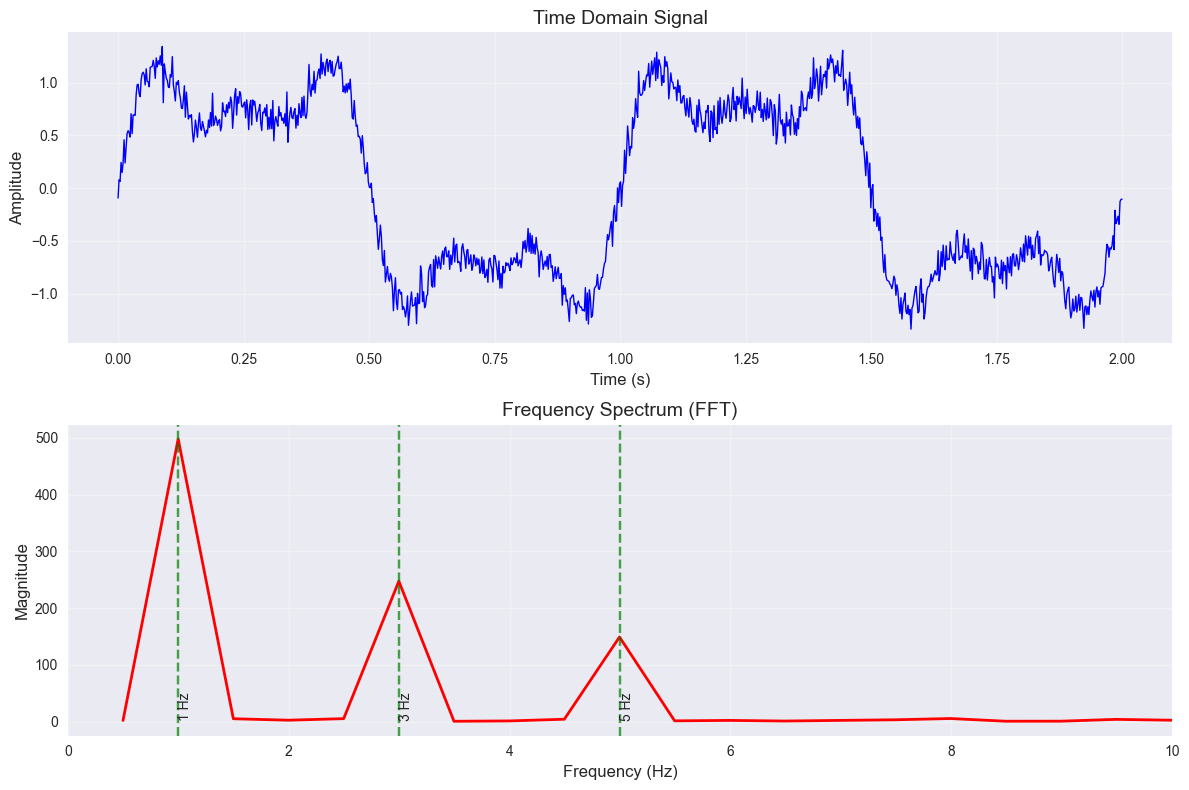
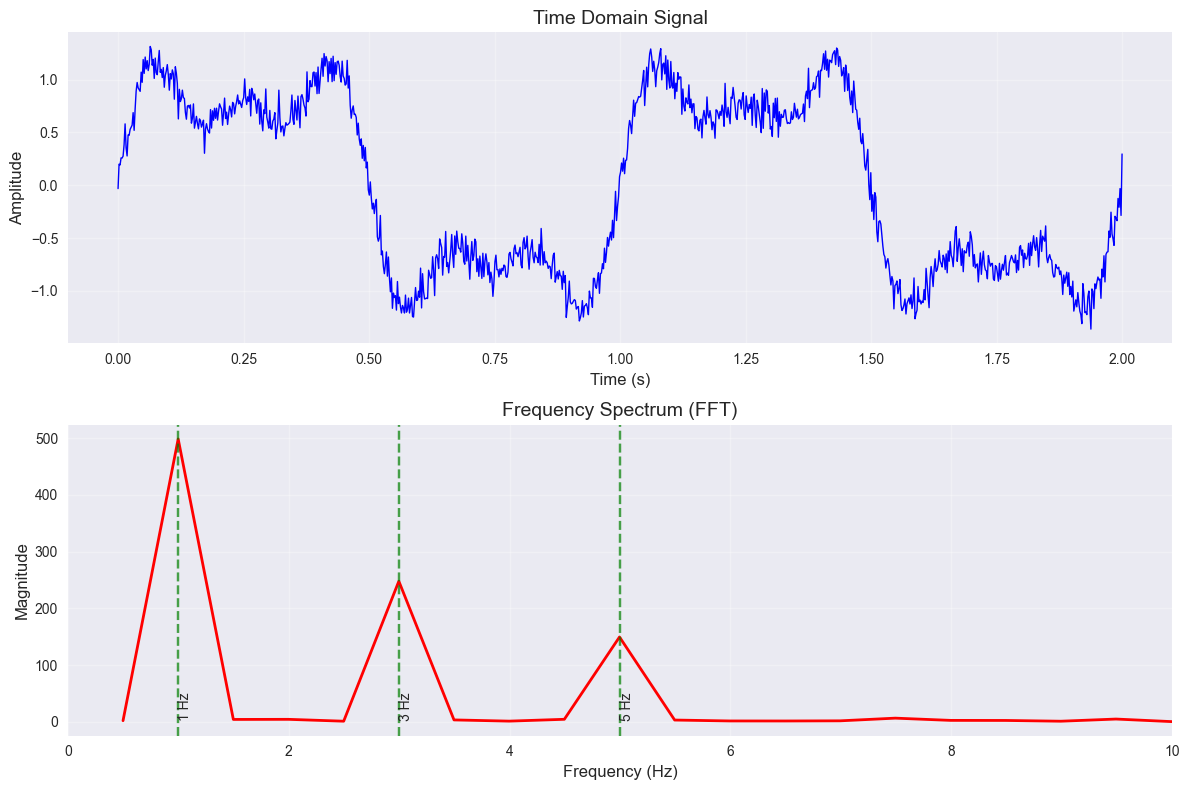
fix: use relative paths for notebook images
- Update compile_notebooks.py to generate relative image paths instead of absolute paths
- Change from /compiled_notebooks/notebook-name/image.png to just image.png
- This fixes image rendering issues in the compiled documentation
- Recompile all notebooks to apply the path fixes

diff --git a/scripts/compile_notebooks.py b/scripts/compile_notebooks.py
@@ -200,15 +200,15 @@ def fix_image_paths(markdown_content, notebook_name):
             
             # If it's a relative path from nbconvert, adjust it
             if original_path.startswith('./'):
-                # Remove the ./ and prepend static path
+                # Remove ./ - use relative path since we're in the same directory
                 filename = original_path[2:]
-                new_path = f"/compiled_notebooks/{zola_dir_name}/{filename}"
+                new_path = filename
             elif original_path.startswith('../'):
                 # Handle relative paths
                 new_path = original_path
             else:
-                # Prepend static path
-                new_path = f"/compiled_notebooks/{zola_dir_name}/{original_path}"
+                # Use relative path since we're in the same directory
+                new_path = original_path
             
             return f'![{alt_text}]({new_path})'
         

diff --git a/zdocs/content/compiled_notebooks/mathematical_concepts.md b/zdocs/content/compiled_notebooks/mathematical_concepts.md
@@ -8,8 +8,8 @@ in_search_index = true
 
 [extra]
 notebook_source = "mathematical_concepts.ipynb"
-generated_date = "2026-03-22 12:34:51"
-execution_time = "3.23s"
+generated_date = "2026-03-22 16:10:11"
+execution_time = "3.19s"
 cell_count = 13
 +++
 
@@ -86,17 +86,17 @@ plt.show()
     <>:28: SyntaxWarning: invalid escape sequence '\s'
     <>:29: SyntaxWarning: invalid escape sequence '\s'
     <>:35: SyntaxWarning: invalid escape sequence '\s'
-    /tmp/ipykernel_2469564/74342987.py:28: SyntaxWarning: invalid escape sequence '\s'
+    /tmp/ipykernel_2802022/74342987.py:28: SyntaxWarning: invalid escape sequence '\s'
       ax1.plot(x, y, 'b-', linewidth=2, label='$f(x) = x^2 \sin(x)$')
-    /tmp/ipykernel_2469564/74342987.py:29: SyntaxWarning: invalid escape sequence '\s'
+    /tmp/ipykernel_2802022/74342987.py:29: SyntaxWarning: invalid escape sequence '\s'
       ax1.set_title('Function $f(x) = x^2 \sin(x)$', fontsize=14)
-    /tmp/ipykernel_2469564/74342987.py:35: SyntaxWarning: invalid escape sequence '\s'
+    /tmp/ipykernel_2802022/74342987.py:35: SyntaxWarning: invalid escape sequence '\s'
       ax2.plot(x, y_prime, 'r-', linewidth=2, label="$f'(x) = 2x \sin(x) + x^2 \cos(x)$")
 
 
 
     
-![png](/compiled_notebooks/mathematical-concepts/output_2_1.png)
+![png](output_2_1.png)
     
 
 
@@ -184,7 +184,7 @@ plt.show()
 
 
     
-![png](/compiled_notebooks/mathematical-concepts/output_5_0.png)
+![png](output_5_0.png)
     
 
 
@@ -249,7 +249,7 @@ print(f"Kurtosis: {norm_dist.stats('k'):.4f}")
 
 
     
-![png](/compiled_notebooks/mathematical-concepts/output_7_0.png)
+![png](output_7_0.png)
     
 
 
@@ -325,7 +325,7 @@ plt.show()
 
 
     
-![png](/compiled_notebooks/mathematical-concepts/output_9_0.png)
+![png](output_9_0.png)
     
 
 
@@ -399,28 +399,27 @@ for freq, mag in zip(peak_frequencies, peak_magnitudes):
 
 
     
-![png](/compiled_notebooks/mathematical-concepts/output_11_0.png)
+![png](output_11_0.png)
     
 
 
     Detected frequency components:
-    Frequency: 1.00 Hz, Magnitude: 497.83
-    Frequency: 3.00 Hz, Magnitude: 247.43
-    Frequency: 4.99 Hz, Magnitude: 149.09
-    Frequency: 5.99 Hz, Magnitude: 2.23
-    Frequency: 7.99 Hz, Magnitude: 5.54
-    Frequency: 9.49 Hz, Magnitude: 4.06
-    Frequency: 10.49 Hz, Magnitude: 3.43
-    Frequency: 11.99 Hz, Magnitude: 4.83
-    Frequency: 13.49 Hz, Magnitude: 2.32
-    Frequency: 14.49 Hz, Magnitude: 2.58
-    Frequency: 15.98 Hz, Magnitude: 3.05
-    Frequency: 16.98 Hz, Magnitude: 3.68
-    Frequency: 18.98 Hz, Magnitude: 5.72
-    Frequency: 19.98 Hz, Magnitude: 4.05
-    Frequency: 20.98 Hz, Magnitude: 2.41
-    Frequency: 21.98 Hz, Magnitude: 4.03
-    Frequency: 23.48 Hz, Magnitude: 4.22
+    Frequency: 1.00 Hz, Magnitude: 498.73
+    Frequency: 2.00 Hz, Magnitude: 4.35
+    Frequency: 3.00 Hz, Magnitude: 247.95
+    Frequency: 4.99 Hz, Magnitude: 149.55
+    Frequency: 7.49 Hz, Magnitude: 6.45
+    Frequency: 9.49 Hz, Magnitude: 4.86
+    Frequency: 11.99 Hz, Magnitude: 3.51
+    Frequency: 13.49 Hz, Magnitude: 5.52
+    Frequency: 14.49 Hz, Magnitude: 4.49
+    Frequency: 15.98 Hz, Magnitude: 4.24
+    Frequency: 16.98 Hz, Magnitude: 2.52
+    Frequency: 17.98 Hz, Magnitude: 3.71
+    Frequency: 19.48 Hz, Magnitude: 4.62
+    Frequency: 20.48 Hz, Magnitude: 4.22
+    Frequency: 22.48 Hz, Magnitude: 4.40
+    Frequency: 23.98 Hz, Magnitude: 3.12
 
 
 ## Summary

diff --git a/zdocs/content/compiled_notebooks/statistical_analysis.md b/zdocs/content/compiled_notebooks/statistical_analysis.md
@@ -8,8 +8,8 @@ in_search_index = true
 
 [extra]
 notebook_source = "statistical_analysis.ipynb"
-generated_date = "2026-03-22 12:34:57"
-execution_time = "5.71s"
+generated_date = "2026-03-22 16:10:17"
+execution_time = "5.88s"
 cell_count = 36
 +++
 
@@ -262,7 +262,7 @@ plt.show()
 
 
     
-![png](/compiled_notebooks/statistical-analysis/output_6_0.png)
+![png](output_6_0.png)
     
 
 
@@ -335,13 +335,13 @@ plt.show()
 
 
     
-![png](/compiled_notebooks/statistical-analysis/output_9_0.png)
+![png](output_9_0.png)
     
 
 
 
     
-![png](/compiled_notebooks/statistical-analysis/output_9_1.png)
+![png](output_9_1.png)
     
 
 
@@ -351,7 +351,7 @@ plt.show()
 
 
     
-![png](/compiled_notebooks/statistical-analysis/output_9_3.png)
+![png](output_9_3.png)
     
 
 
@@ -474,7 +474,7 @@ plt.show()
 
 
     
-![png](/compiled_notebooks/statistical-analysis/output_15_1.png)
+![png](output_15_1.png)
     
 
 
@@ -530,7 +530,7 @@ plt.show()
 
 
     
-![png](/compiled_notebooks/statistical-analysis/output_16_1.png)
+![png](output_16_1.png)
     
 
 
@@ -759,7 +759,7 @@ plt.show()
 
 
     
-![png](/compiled_notebooks/statistical-analysis/output_24_0.png)
+![png](output_24_0.png)
     
 
 
@@ -812,7 +812,7 @@ plt.show()
 
 
     
-![png](/compiled_notebooks/statistical-analysis/output_26_1.png)
+![png](output_26_1.png)
     
 
 
@@ -873,6 +873,8 @@ plt.show()
 ```
 
     === FIRST DIFFERENCE ===
+
+
     === AUGMENTED DICKEY-FULLER TEST ===
     ADF Statistic: -11.0505
     p-value: 0.0000
@@ -886,7 +888,7 @@ plt.show()
 
 
     
-![png](/compiled_notebooks/statistical-analysis/output_28_1.png)
+![png](output_28_2.png)
     
 
 
@@ -936,12 +938,14 @@ print(f"MAPE: {mape:.2f}%")
 ```
 
     === ARIMA MODEL ===
+
+
                                    SARIMAX Results                                
     ==============================================================================
     Dep. Variable:                  value   No. Observations:                  160
     Model:                 ARIMA(1, 1, 1)   Log Likelihood                -657.295
     Date:                Sun, 22 Mar 2026   AIC                           1320.589
-    Time:                        12:34:56   BIC                           1329.796
+    Time:                        16:10:16   BIC                           1329.796
     Sample:                    01-31-2020   HQIC                          1324.328
                              - 04-30-2033                                         
     Covariance Type:                  opg                                         
@@ -964,7 +968,7 @@ print(f"MAPE: {mape:.2f}%")
 
 
     
-![png](/compiled_notebooks/statistical-analysis/output_29_1.png)
+![png](output_29_2.png)
     
 
 
@@ -1075,7 +1079,7 @@ print(f"Bayesian 95% credible interval: [{ci_lower:.3f}, {ci_upper:.3f}]")
 
 
     
-![png](/compiled_notebooks/statistical-analysis/output_33_0.png)
+![png](output_33_0.png)
     
 
 

diff --git a/zdocs/content/compiled_notebooks/data_visualization.md b/zdocs/content/compiled_notebooks/data_visualization.md
@@ -8,8 +8,8 @@ in_search_index = true
 
 [extra]
 notebook_source = "data_visualization.ipynb"
-generated_date = "2026-03-22 12:34:48"
-execution_time = "4.84s"
+generated_date = "2026-03-22 16:10:08"
+execution_time = "4.94s"
 cell_count = 16
 +++
 
@@ -137,7 +137,7 @@ plt.show()
 
 
     
-![png](/compiled_notebooks/data-visualization/output_4_0.png)
+![png](output_4_0.png)
     
 
 
@@ -197,7 +197,7 @@ print(f"Correlation coefficient: {correlation:.3f}")
 
 
     
-![png](/compiled_notebooks/data-visualization/output_6_0.png)
+![png](output_6_0.png)
     
 
 
@@ -256,13 +256,13 @@ plt.show()
 
 
     
-![png](/compiled_notebooks/data-visualization/output_8_0.png)
+![png](output_8_0.png)
     
 
 
 
     
-![png](/compiled_notebooks/data-visualization/output_8_1.png)
+![png](output_8_1.png)
     
 
 
@@ -272,7 +272,7 @@ plt.show()
 
 
     
-![png](/compiled_notebooks/data-visualization/output_8_3.png)
+![png](output_8_3.png)
     
 
 
@@ -355,13 +355,13 @@ print(f"Exponential: μ={np.mean(exponential_data):.3f}, σ={np.std(exponential_
 print(f"Bimodal: μ={np.mean(bimodal_data):.3f}, σ={np.std(bimodal_data):.3f}")
 ```
 
-    /tmp/ipykernel_2469316/1688390273.py:23: MatplotlibDeprecationWarning: The 'labels' parameter of boxplot() has been renamed 'tick_labels' since Matplotlib 3.9; support for the old name will be dropped in 3.11.
+    /tmp/ipykernel_2801800/1688390273.py:23: MatplotlibDeprecationWarning: The 'labels' parameter of boxplot() has been renamed 'tick_labels' since Matplotlib 3.9; support for the old name will be dropped in 3.11.
       axes[0, 1].boxplot(data_for_box, labels=labels)
 
 
 
     
-![png](/compiled_notebooks/data-visualization/output_10_1.png)
+![png](output_10_1.png)
     
 
 
@@ -455,7 +455,7 @@ plt.show()
 
 
     
-![png](/compiled_notebooks/data-visualization/output_12_0.png)
+![png](output_12_0.png)
     
 
 
@@ -512,13 +512,13 @@ plt.suptitle('Comprehensive Data Visualization Dashboard',
 plt.show()
 ```
 
-    /tmp/ipykernel_2469316/1451512682.py:33: MatplotlibDeprecationWarning: The 'labels' parameter of boxplot() has been renamed 'tick_labels' since Matplotlib 3.9; support for the old name will be dropped in 3.11.
+    /tmp/ipykernel_2801800/1451512682.py:33: MatplotlibDeprecationWarning: The 'labels' parameter of boxplot() has been renamed 'tick_labels' since Matplotlib 3.9; support for the old name will be dropped in 3.11.
       box_plot = ax_box.boxplot(box_data, labels=['X Variable', 'Y Variable'],
 
 
 
     
-![png](/compiled_notebooks/data-visualization/output_14_1.png)
+![png](output_14_1.png)
     
 
 

diff --git a/zdocs/content/compiled_notebooks/_index.md b/zdocs/content/compiled_notebooks/_index.md
@@ -8,7 +8,7 @@ in_search_index = true
 
 [extra]
 section_type = "notebooks"
-generated_date = "2026-03-22 12:34:57"
+generated_date = "2026-03-22 16:10:17"
 +++
 
 # Compiled Notebooks
